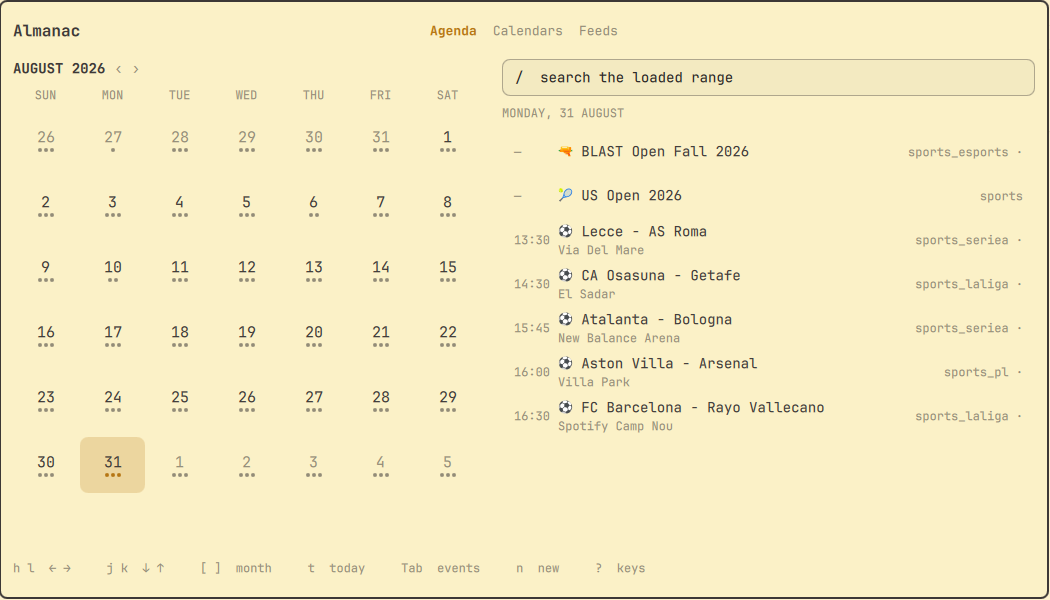
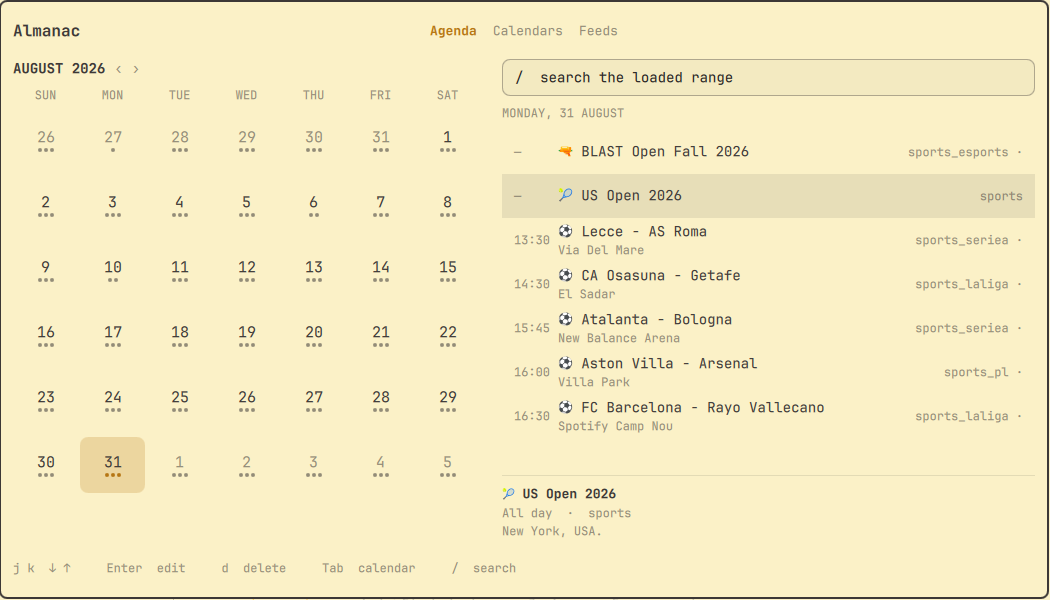
test: cover the search, the dates and the helpers; refresh the docs
The suite checked two of the ten functions in Khal.js and none of the
five helpers, which left the two things most likely to break silently
uncovered: isoDateTime, which had already had a bug in the form
round-trip, and the regex that strips the feed advertising, which will
break the day fixtur.es rewords its trailer.

- test/khal-test.js now asserts rather than printing, and covers the
  sanitising boundary, the date arithmetic, the all-day-versus-timed
  grouping rule, the search and the labels.
- test/bin-test.sh runs the helpers against fixture configs with khal
  replaced by a stub. That is what makes the per-day flattening, the
  promo stripping, the recurrence flag, the title filters and the feed
  add/remove round-trip checkable without a calendar store.

Both were mutation-tested: reversing the timed-event rule and breaking
the promo regex each make their suite fail.

README documents what landed after it was written — the detail panel,
the repeat field, all-day events, what a delete takes with it, the
error reporting and the advertising strip. The panel preview is
retaken on the current UI.

diff --git a/test/khal-test.js b/test/khal-test.js
@@ -1,22 +1,88 @@
+// Unit tests for Khal.js, which is kept Qt-free precisely so these can run
+// under plain node instead of by opening the panel and looking.
+
 const fs = require("fs");
-const src = fs.readFileSync(process.argv[2], "utf8");
+
 const K = {};
-new Function("exports", src + ";Object.assign(exports,{parseJson,groupByDay});")(K);
+new Function("exports", fs.readFileSync(process.argv[2], "utf8") + ";" +
+  "Object.assign(exports, { parseJson, clean, sanitize, isoDate, isoDateTime," +
+  " groupByDay, addDays, filterEvents, timeLabel, rangeLabel });")(K);
 
-const nasty = JSON.stringify([{
-  title: "Match" + String.fromCharCode(27) + "[31m red" + String.fromCharCode(10) + "second line",
-  url: "x".repeat(900),
-  calendar: "sports_pl"
-}]);
-const out = K.parseJson(nasty, []);
-console.log("title:", JSON.stringify(out[0].title));
-console.log("url capped to:", out[0].url.length);
-console.log("oversize:", JSON.stringify(K.parseJson("x".repeat(5 * 1024 * 1024), [])));
-console.log("garbage:", JSON.stringify(K.parseJson("not json", [])));
+let failures = 0;
 
-const evs = [
-  { date: "2026-09-01", endDate: "2026-09-02", time: "23:10", title: "STL" },
-  { date: "2026-08-31", endDate: "2026-09-13", time: "", title: "US Open" }
+function check(name, actual, expected) {
+  const a = JSON.stringify(actual);
+  const e = JSON.stringify(expected);
+  if (a === e) return;
+  console.error(`FAIL ${name}\n  expected ${e}\n  actual   ${a}`);
+  failures++;
+}
+
+// ---- parseJson: the boundary every byte from a feed crosses
+
+const ESC = String.fromCharCode(27);
+const nasty = JSON.stringify([{ title: `a${ESC}[31mb\nc`, url: "x".repeat(900) }]);
+check("control characters become spaces", K.parseJson(nasty, [])[0].title, "a [31mb c");
+check("fields are capped", K.parseJson(nasty, [])[0].url.length, 400);
+check("oversize output degrades", K.parseJson("x".repeat(5 * 1024 * 1024), []), []);
+check("unparseable output degrades", K.parseJson("not json", []), []);
+check("null degrades", K.parseJson("null", []), []);
+check("non-strings pass through", K.parseJson('[{"repeats":true,"n":3}]', [])[0],
+  { repeats: true, n: 3 });
+check("nested strings are cleaned", K.parseJson('[{"a":{"b":"x\\ty"}}]', [])[0].a.b, "x y");
+
+// ---- dates
+
+check("isoDate pads", K.isoDate(new Date(2026, 8, 2)), "2026-09-02");
+check("isoDate keeps two digits", K.isoDate(new Date(2026, 11, 25)), "2026-12-25");
+check("isoDateTime with time", K.isoDateTime(new Date(2026, 8, 2), "09:00"), "2026-09-02T09:00");
+check("isoDateTime without time", K.isoDateTime(new Date(2026, 8, 2), ""), "2026-09-02");
+check("addDays forward", K.addDays("2026-08-31", 1), "2026-09-01");
+check("addDays backward over a month", K.addDays("2026-09-01", -1), "2026-08-31");
+check("addDays over a year", K.addDays("2026-12-31", 1), "2027-01-01");
+
+// ---- grouping: an all-day event covers its span, a timed one does not
+
+const allDay = { date: "2026-08-31", endDate: "2026-09-13", time: "", title: "US Open" };
+// Ends 02:10 the next morning; it belongs to the night it starts.
+const overnight = { date: "2026-09-01", endDate: "2026-09-02", time: "23:10", title: "STL" };
+const grouped = K.groupByDay([allDay, overnight], "2026-08-31", "2026-09-03");
+check("all-day spans its days",
+  Object.keys(grouped).sort(), ["2026-08-31", "2026-09-01", "2026-09-02", "2026-09-03"]);
+check("timed event stays on its start day",
+  grouped["2026-09-02"].map(e => e.title), ["US Open"]);
+check("the night it starts has both",
+  grouped["2026-09-01"].map(e => e.title).sort(), ["STL", "US Open"]);
+check("nothing leaks outside the range", grouped["2026-08-30"], undefined);
+// DTEND is exclusive for an all-day event, so the last day is not its own.
+const twoDay = { date: "2026-09-05", endDate: "2026-09-07", time: "", title: "Probe" };
+check("all-day DTEND is exclusive",
+  Object.keys(K.groupByDay([twoDay], "2026-09-01", "2026-09-10")).sort(),
+  ["2026-09-05", "2026-09-06"]);
+
+// ---- search
+
+const events = [
+  { title: "Aston Villa - Arsenal", calendar: "sports_pl", location: "Villa Park", description: "" },
+  { title: "Lecce - AS Roma", calendar: "sports_seriea", location: "Via Del Mare", description: "" }
 ];
-const g = K.groupByDay(evs, "2026-08-31", "2026-09-03");
-console.log("grouping:", Object.keys(g).sort().map(k => k + "=" + g[k].length).join(" "));
+check("search is case-insensitive", K.filterEvents(events, "ARSENAL").map(e => e.calendar), ["sports_pl"]);
+check("search covers the location", K.filterEvents(events, "del mare").length, 1);
+check("search covers the calendar", K.filterEvents(events, "seriea").length, 1);
+check("an empty query keeps everything", K.filterEvents(events, "  ").length, 2);
+check("no match is empty, not everything", K.filterEvents(events, "zzz").length, 0);
+
+// ---- labels
+
+check("a timed event shows its time", K.timeLabel({ time: "13:30" }), "13:30");
+check("an all-day event gets a placeholder", K.timeLabel({ time: "" }), "—");
+check("range with an end", K.rangeLabel({ time: "13:30", endTime: "15:15" }), "13:30 – 15:15");
+check("range without an end", K.rangeLabel({ time: "13:30", endTime: "" }), "13:30");
+check("all-day range", K.rangeLabel({ time: "" }), "All day");
+check("no event at all", K.rangeLabel(null), "");
+
+if (failures > 0) {
+  console.error(`\n${failures} failing`);
+  process.exit(1);
+}
+console.log("Khal.js: all checks passed");

diff --git a/README.md b/README.md
@@ -72,16 +72,43 @@ The widget shows the date. Clicking it opens the month.
 | `n` | New event |
 | `e` | Edit the selected event |
 | `d` | Delete the selected event, after a confirmation |
+| `Enter` | Edit, when the cursor is in the day's events |
 | `/` | Search the loaded range |
 | `a` `c` `f` | Agenda, Calendars, Feeds |
 | `?` | Show the shortcut overlay |
 | `Esc` | Close |
+
+Selecting an event shows its detail below the list: the times, the calendar,
+the location, and the description. A description is otherwise unreachable for
+a readonly calendar, which has no edit form to open.
+
+The new-event form takes a repeat rule (`daily`, `weekly`, `monthly`,
+`yearly`). Leaving the time off both ends creates an all-day event. Editing
+does not offer the repeat field: an edit rewrites one VEVENT and has no
+business rewriting a recurrence rule. Deleting a repeating event removes every
+occurrence, since one file holds the whole series, and the confirmation says
+so.
 
 On the Calendars page, `Space` hides a calendar from the agenda. It keeps
 syncing; this is a view filter, not a subscription change.
 
 On the Feeds page, `n` adds a feed, `s` syncs the selected one, `Shift+S`
 syncs every feed, and `d` removes one.
+
+## When something is wrong
+
+A read that fails is not an empty calendar, and the panel does not pretend
+otherwise: it says which dependency is missing, or which config it could not
+read, where the events would have been. `khal`, `jq` and `python3` with
+`icalendar` all have to be installed for the plugin to have anything to show.
+
+## Advertising in feeds
+
+Some publishers staple a promo trailer onto the description of every event
+they publish. The fixtur.es feeds append a "Calendar not up to date?" line and
+a Buy Me a Coffee link, which for a fixture is the entire description, so it
+filled the detail panel on every match. `khal-events` cuts it. The `.ics` on
+disk is untouched and comes back whole on the next sync.
 
 ## How it talks to khal
 
@@ -127,9 +154,13 @@ matches, per calendar:
 ./test/run
 ```
 
-`Khal.js` is deliberately Qt-free so the parsing, sanitising and grouping
-rules can be checked under `node` rather than by opening the panel and
-looking.
+Two suites, neither of which needs a calendar or a running shell:
+
+- `test/khal-test.js` covers `Khal.js`, which is deliberately Qt-free so the
+  parsing, sanitising, grouping and search rules can be checked under `node`.
+- `test/bin-test.sh` runs the helpers against fixture configs with `khal`
+  replaced by a stub, which is what makes the per-day flattening, the promo
+  stripping and the feed round-trip checkable anywhere.
 
 ## License
 
